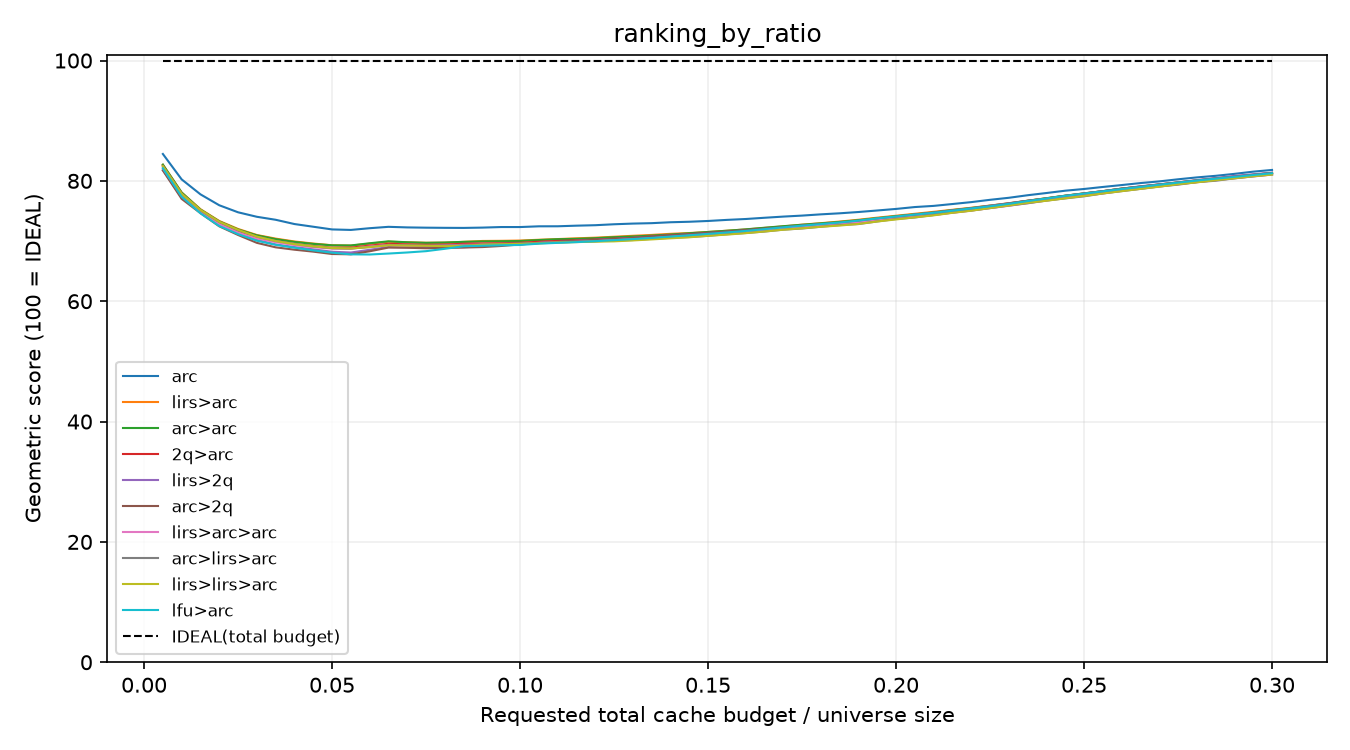
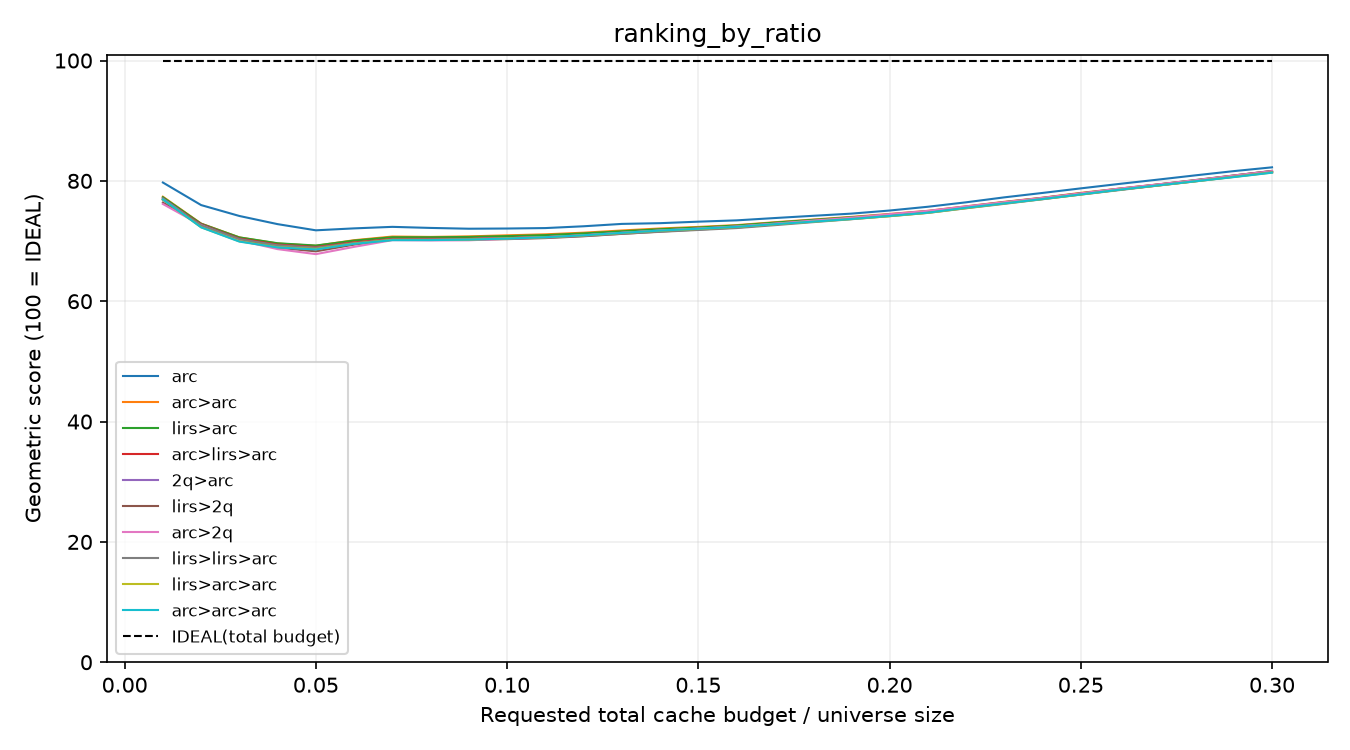
update research in readme

diff --git a/README.md b/README.md
@@ -49,10 +49,13 @@ strategies for 1, 2, or 3 levels. IDEAL uses one cache with the same total budge
 Exclusive hierarchies are the default. With `--inclusive`, total hit rate
 depends on the last level.
 
-[50 synthetic traces](benchmarks/traces/README.md) are included, each with a
-key space of 4,096 keys and 8,192 requests.
-Trace format: positive key-space size, positive request count, then the integer
-keys, one value per line.
+[30 synthetic workloads](benchmarks/README.md) are generated on each run,
+with **100,000 possible keys and 200,000 requests** per trace by default.
+Each trace is generated once in memory and sent through stdin to every runner
+invocation, so all policies, capacities and IDEAL receive identical requests.
+Generation is deterministic for the scenario name, generator/Python versions and sizes.
+Independent cache budgets run concurrently; `--jobs` limits the number of C++ processes.
+Working-set sizes and phase lengths scale with the requested sizes.
 
 ```bash
 .venv/bin/python benchmarks/benchmark.py \
@@ -62,8 +65,11 @@ keys, one value per line.
 
 | Argument | Default | Description |
 | --- | --- | --- |
-| `--data-dir PATH` | `benchmarks/traces` | Input trace directory. |
-| `--pattern GLOB` | `*.txt` | Trace filename filter; quote patterns, e.g. `'16_*'`. |
+| `--universe-size N` | `1000000` | Number of possible keys. |
+| `--requests N` | `2 * universe size` | Requests per generated trace. |
+| `--jobs N` | Up to 8 CPUs | Maximum concurrent C++ runners; `1` runs sequentially. |
+| `--list-traces` | Off | List matching trace names and exit. |
+| `--pattern GLOB` | `*` | Scenario name filter; quote patterns, e.g. `'16_*'` (no `.txt` suffix). |
 | `--runner PATH` | `build/benchmarks/cache_bench_runner` | C++ runner executable. |
 | `--levels N [N ...]` | `1 2 3` | Level counts: 1, 2, or 3. |
 | `--exclusive` | On | Use an exclusive hierarchy. |
@@ -78,6 +84,7 @@ keys, one value per line.
 
 ### Output
 
+- `manifest.json`: generator/Python versions, sizes, configurations, worker limit and trace hashes.
 - `results.csv`: all measurements and IDEAL hit rates.
 - `<trace>.png`: hit rate (%) against actual budget / key-space size.
 - `ranking.csv` and `ranking.png`: overall strategy scores.
@@ -85,7 +92,11 @@ keys, one value per line.
   each requested ratio.
 
 Line plots select the highest mean curves and show identical curves once.
-CSV files keep all strategies.
+CSV files keep all strategies. The manifest hashes the exact generated input,
+so separate runs can be checked for matching data. Trace files are not saved.
+CSV rows and rankings keep a stable order regardless of worker completion order.
+The worker limit defaults to `min(8, CPU count)` and cannot exceed the number of
+budgets in a trace. Each concurrent runner has its own cache memory.
 
 ### Score
 
@@ -108,20 +119,25 @@ Prints `strategy hits requests` per combination. Policy names run from L1
 downwards, e.g. `lru>arc`.
 
 ```bash
-./build/benchmarks/cache_bench_runner \
-  --trace benchmarks/traces/10_database_mixed.txt --capacities 64 192
+python3 benchmarks/generate_traces.py --trace 09_database_mixed \
+  --universe-size 4096 --requests 8192 | \
+  ./build/benchmarks/cache_bench_runner --trace - --capacities 64 192
 ```
 
 | Argument | Description |
 | --- | --- |
-| `--trace PATH` | Required trace file in the format above. |
+| `--trace PATH` | Required: `-` for stdin, or an external trace file. |
 | `--capacities N [N ...]` | Required: 1–3 positive, nondecreasing integer capacities, from L1 downwards. |
 | `--ideal` | Run only IDEAL; requires exactly one capacity. |
 | `--exclusive` | Use an exclusive hierarchy (default). |
 | `--inclusive` | Use an inclusive hierarchy. |
 | `-h`, `--help` | Show help and exit. |
 
-`--ideal`, `--exclusive`, and `--inclusive` are mutually exclusive.
+Input format: positive key-space size, positive request count, then integer
+keys in `1..key-space size`, one value per line. Missing, extra or out-of-range
+requests are rejected. `--ideal`, `--exclusive`, and `--inclusive` are mutually
+exclusive. IDEAL precomputes next uses and maintains an ordered set of resident
+next-use positions, taking O(requests × log(capacity + 1)) time after preprocessing.
 
 ## Research
 
@@ -130,24 +146,24 @@ their total hit rate equals that of a standalone cache with the last level's
 policy and capacity: upper-level entries are also present in the last level,
 and every request updates that level.
 
-The results use the current [50-trace dataset](benchmarks/traces/README.md),
-with 4,096 keys and 8,192 requests per trace. Total cache budgets range from
-0.5% to 30% of the key space in steps of 0.5 percentage points: 60 points per
-trace.
+The results use the 30 [synthetic workloads](benchmarks/README.md), with
+**100,000 keys and 200,000 requests** per trace. Total cache budgets range from
+1% to 30% of the key space in steps of 1 percentage point: 30 points per
+trace (1,000 to 30,000 entries).
 
 The initial decline in **Rating by ratio** comes from comparison with IDEAL.
 Hit rates generally rise with capacity, but the score falls when IDEAL reduces
-its misses faster proportionally. For example, from a 0.5% to a 5.5% budget,
-ARC's mean hit rate across traces rises from **12.5% to 36.3%**, while its
-score falls from **84.4 to 71.8**. The best overall strategies for one,
-two, and three levels all reach their sampled minimum at **5.5%** (225 entries).
-Across all 155 strategies, minima range from 5% to 10%.
+its misses faster proportionally. For example, from a 1% to a 5% budget,
+ARC's mean hit rate across traces rises from **21.5% to 38.2%**, while its
+score falls from **79.7 to 71.8**. The best overall strategies for one,
+two, and three levels all reach their sampled minimum at **5%** (5,000 entries).
+Across all 155 strategies, minima range from 5% to 11%.
 
 ### All strategies
 
 Among all 155 configurations, single-level ARC has the highest overall score
-(**75.378**), ahead of the best two-level (**73.681**) and three-level
-(**73.207**) strategies. ARC also leads the per-ratio ranking at all 60 sampled ratios. 
+(**75.283**), ahead of the best two-level (**74.001**) and three-level
+(**73.723**) strategies. ARC also leads the per-ratio ranking at all 30 sampled ratios.
 
 ARC is the best overall choice, but the best strategy for a specific case may
 vary with the access pattern, cache budget, number of levels, and capacity split.
@@ -155,7 +171,7 @@ vary with the access pattern, cache budget, number of levels, and capacity split
 Each figure group below shows the overall ranking at the top left and the score
 versus cache/data ratio at the top right. The two hit-rate plots below are just
 examples, with no special significance attached to the choice of traces.
-The rankings use all 50 traces.
+The rankings use all 30 traces.
 
 <table>
   <tr>
@@ -170,12 +186,12 @@ The rankings use all 50 traces.
   </tr>
   <tr>
     <td width="50%" align="center" valign="top">
-      <strong>Trace 12: Alternating hot regions</strong><br>
-      <a href="assets/all/12_alternating_hot_regions.png"><img src="assets/all/12_alternating_hot_regions.png" alt="all: Trace 12: Alternating hot regions" width="100%"></a>
+      <strong>Trace 17: Periodic hot-set load</strong><br>
+      <a href="assets/all/17_periodic_hot_set_load.png"><img src="assets/all/17_periodic_hot_set_load.png" alt="all: Trace 17: Periodic hot-set load" width="100%"></a>
     </td>
     <td width="50%" align="center" valign="top">
-      <strong>Trace 18: Web sessions with noise</strong><br>
-      <a href="assets/all/18_web_sessions_with_noise.png"><img src="assets/all/18_web_sessions_with_noise.png" alt="all: Trace 18: Web sessions with noise" width="100%"></a>
+      <strong>Trace 23: Variable-length sessions</strong><br>
+      <a href="assets/all/23_variable_length_sessions.png"><img src="assets/all/23_variable_length_sessions.png" alt="all: Trace 23: Variable-length sessions" width="100%"></a>
     </td>
   </tr>
 </table>
@@ -195,12 +211,12 @@ The rankings use all 50 traces.
   </tr>
   <tr>
     <td width="50%" align="center" valign="top">
-      <strong>Trace 12: Alternating hot regions</strong><br>
-      <a href="assets/one/12_alternating_hot_regions.png"><img src="assets/one/12_alternating_hot_regions.png" alt="one: Trace 12: Alternating hot regions" width="100%"></a>
+      <strong>Trace 28: Overlapping working sets</strong><br>
+      <a href="assets/one/28_overlapping_working_sets.png"><img src="assets/one/28_overlapping_working_sets.png" alt="one: Trace 28: Overlapping working sets" width="100%"></a>
     </td>
     <td width="50%" align="center" valign="top">
-      <strong>Trace 15: Returning working sets</strong><br>
-      <a href="assets/one/15_returning_working_sets.png"><img src="assets/one/15_returning_working_sets.png" alt="one: Trace 15: Returning working sets" width="100%"></a>
+      <strong>Trace 12: Returning working sets</strong><br>
+      <a href="assets/one/12_returning_working_sets.png"><img src="assets/one/12_returning_working_sets.png" alt="one: Trace 12: Returning working sets" width="100%"></a>
     </td>
   </tr>
 </table>
@@ -222,19 +238,19 @@ The 25 combinations use a **1:3** capacity split.
   </tr>
   <tr>
     <td width="50%" align="center" valign="top">
-      <strong>Trace 8: Rotating working set</strong><br>
-      <a href="assets/two/08_rotating_working_set.png"><img src="assets/two/08_rotating_working_set.png" alt="two: Trace 8: Rotating working set" width="100%"></a>
+      <strong>Trace 27: Gradual hot-set turnover</strong><br>
+      <a href="assets/two/27_gradual_hot_set_turnover.png"><img src="assets/two/27_gradual_hot_set_turnover.png" alt="two: Trace 27: Gradual hot-set turnover" width="100%"></a>
     </td>
     <td width="50%" align="center" valign="top">
-      <strong>Trace 13: Drifting popularity</strong><br>
-      <a href="assets/two/13_drifting_popularity.png"><img src="assets/two/13_drifting_popularity.png" alt="two: Trace 13: Drifting popularity" width="100%"></a>
+      <strong>Trace 12: Returning working sets</strong><br>
+      <a href="assets/two/12_returning_working_sets.png"><img src="assets/two/12_returning_working_sets.png" alt="two: Trace 12: Returning working sets" width="100%"></a>
     </td>
   </tr>
 </table>
 
 ### Three-level strategies
 
-The 125 combinations use a **1:3:5** capacity split.
+The 125 combinations use a **1:2:5** capacity split.
 
 <table>
   <tr>
@@ -249,12 +265,12 @@ The 125 combinations use a **1:3:5** capacity split.
   </tr>
   <tr>
     <td width="50%" align="center" valign="top">
-      <strong>Trace 15: Returning working sets</strong><br>
-      <a href="assets/three/15_returning_working_sets.png"><img src="assets/three/15_returning_working_sets.png" alt="three: Trace 15: Returning working sets" width="100%"></a>
+      <strong>Trace 12: Returning working sets</strong><br>
+      <a href="assets/three/12_returning_working_sets.png"><img src="assets/three/12_returning_working_sets.png" alt="three: Trace 12: Returning working sets" width="100%"></a>
     </td>
     <td width="50%" align="center" valign="top">
-      <strong>Trace 13: Drifting popularity</strong><br>
-      <a href="assets/three/13_drifting_popularity.png"><img src="assets/three/13_drifting_popularity.png" alt="three: Trace 13: Drifting popularity" width="100%"></a>
+      <strong>Trace 16: Delayed history reuse</strong><br>
+      <a href="assets/three/16_delayed_history_reuse.png"><img src="assets/three/16_delayed_history_reuse.png" alt="three: Trace 16: Delayed history reuse" width="100%"></a>
     </td>
   </tr>
 </table>
